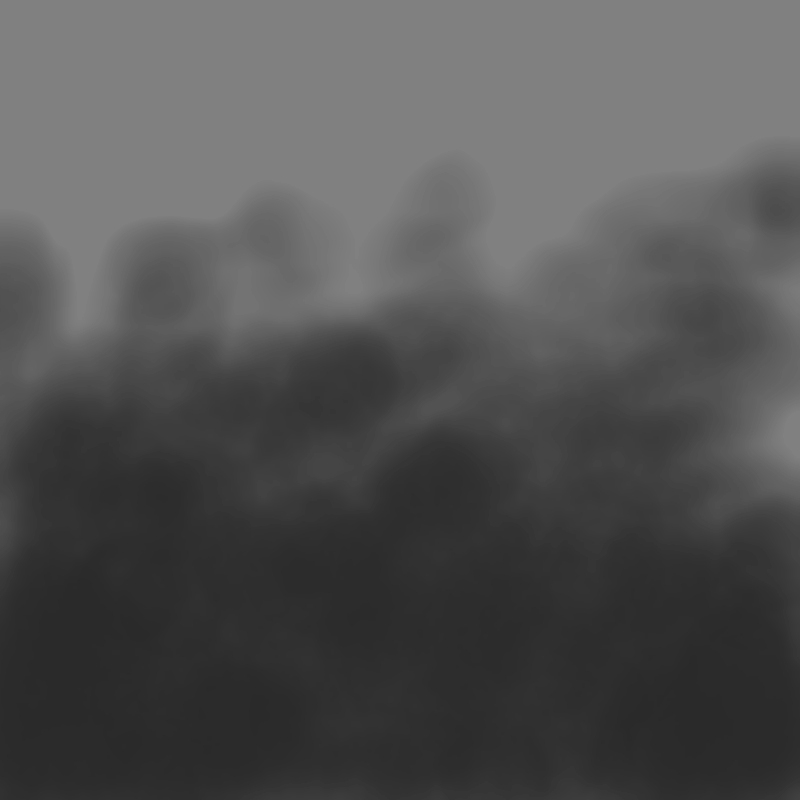
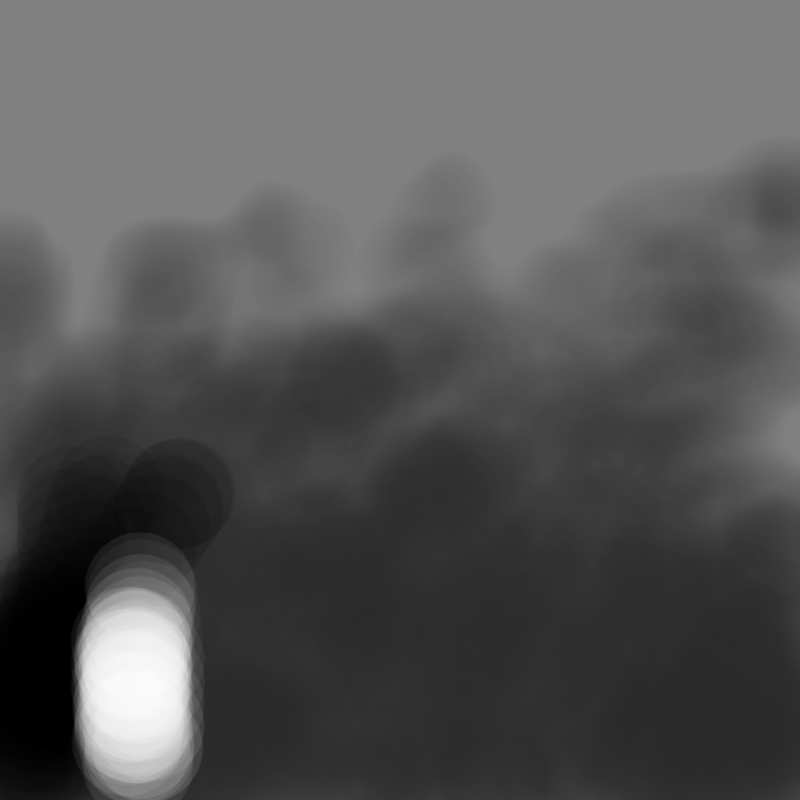
more lineup changes

Changed region(s): [[0.0, 0.5938, 0.25, 1.0]]

diff --git a/tmp/projection-test/js/post/ProjectorPass.js b/tmp/projection-test/js/post/ProjectorPass.js
@@ -88,7 +88,9 @@ THREE.ProjectorShaders = {
                 "gl_FragColor = vec4(col / 3.0);",
                 "if(fTick > 0.0){",
                 // "gl_FragColor.rgb = gl_FragColor.rgb * texture2D(tMask, vec2(mod(vUv.x - offset, 1.0), vUv.y)).rgb;",
-                "gl_FragColor.rgb = gl_FragColor.rgb - texture2D(tMask, vUv).rgb;",
+                // "gl_FragColor.rgb = gl_FragColor.rgb - texture2D(tMask, vUv).rgb;",
+                // "gl_FragColor.rgb = gl_FragColor.rgb - texture2D(tMask, vUv).rgb;",
+                "gl_FragColor.a = pow(1.0-dist,2.0);",//length(vUv.x;",//texture2D(tMask, vUv).g;",
                     // "gl_FragColor.rgba = vec4(1.0, 1.0, 1.0, 1.0);",
                 "}",
             "}"
@@ -105,14 +107,16 @@ THREE.ProjectorPass = function ( renderer, projectorLocation, maskTexture) {
     this.textureID = "tDiffuse";
     this.renderer = renderer;
 
-    // this.uniforms = THREE.UniformsUtils.clone( shader.uniforms );
-
     this.generateUniforms = THREE.UniformsUtils.clone(THREE.ProjectorShaders.Generate.uniforms);
     this.generateMaterial = new THREE.ShaderMaterial( {
 
         uniforms: this.generateUniforms,
         vertexShader: THREE.ProjectorShaders.Generate.vertexShader,
-        fragmentShader: THREE.ProjectorShaders.Generate.fragmentShader
+        fragmentShader: THREE.ProjectorShaders.Generate.fragmentShader,
+        transparent: true
+
+ 
+
 
     } );
 

diff --git a/tmp/projection-test/index.html b/tmp/projection-test/index.html
@@ -1,4 +1,6 @@
-<head>
+<head lang="en">
+    <title>Rob Scanlon</title>
+    <meta name="viewport" content="width=device-width, user-scalable=no, minimum-scale=1.0, maximum-scale=1.0">
     <!-- common vendor scripts -->
     <script src="//ajax.googleapis.com/ajax/libs/webfont/1.4.7/webfont.js"></script>
     <script src="//code.jquery.com/jquery-2.1.1.min.js"></script>
